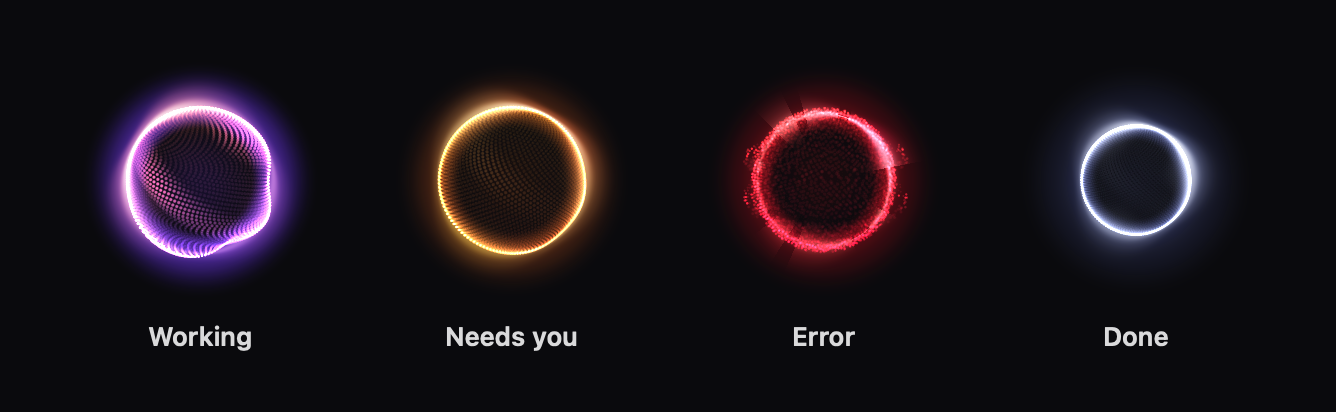
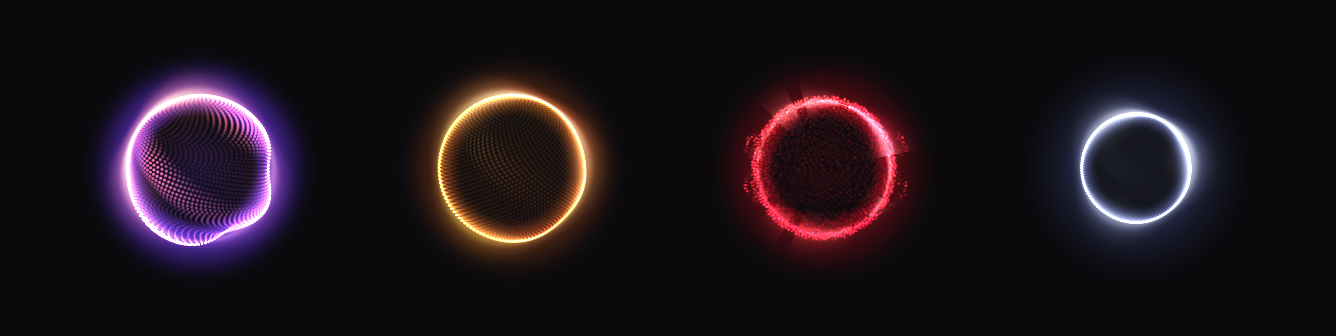
README: label-free states, one dock example

diff --git a/README.md b/README.md
@@ -7,7 +7,9 @@ you can look away until one needs you.
 
 - Its colour and motion show whether Claude is working, needs you, hit an error, or is done.
 - Hover it to see every session, with its GitHub issue or pull request.
-- Float it anywhere, or dock it as an island at the edge of the screen.
+- Float it anywhere, or dock it as an island at the edge of the screen:
+
+![The island docked at the top of the screen](docs/images/dock.png)
 
 ![The session list](docs/images/sessions.png)
 
